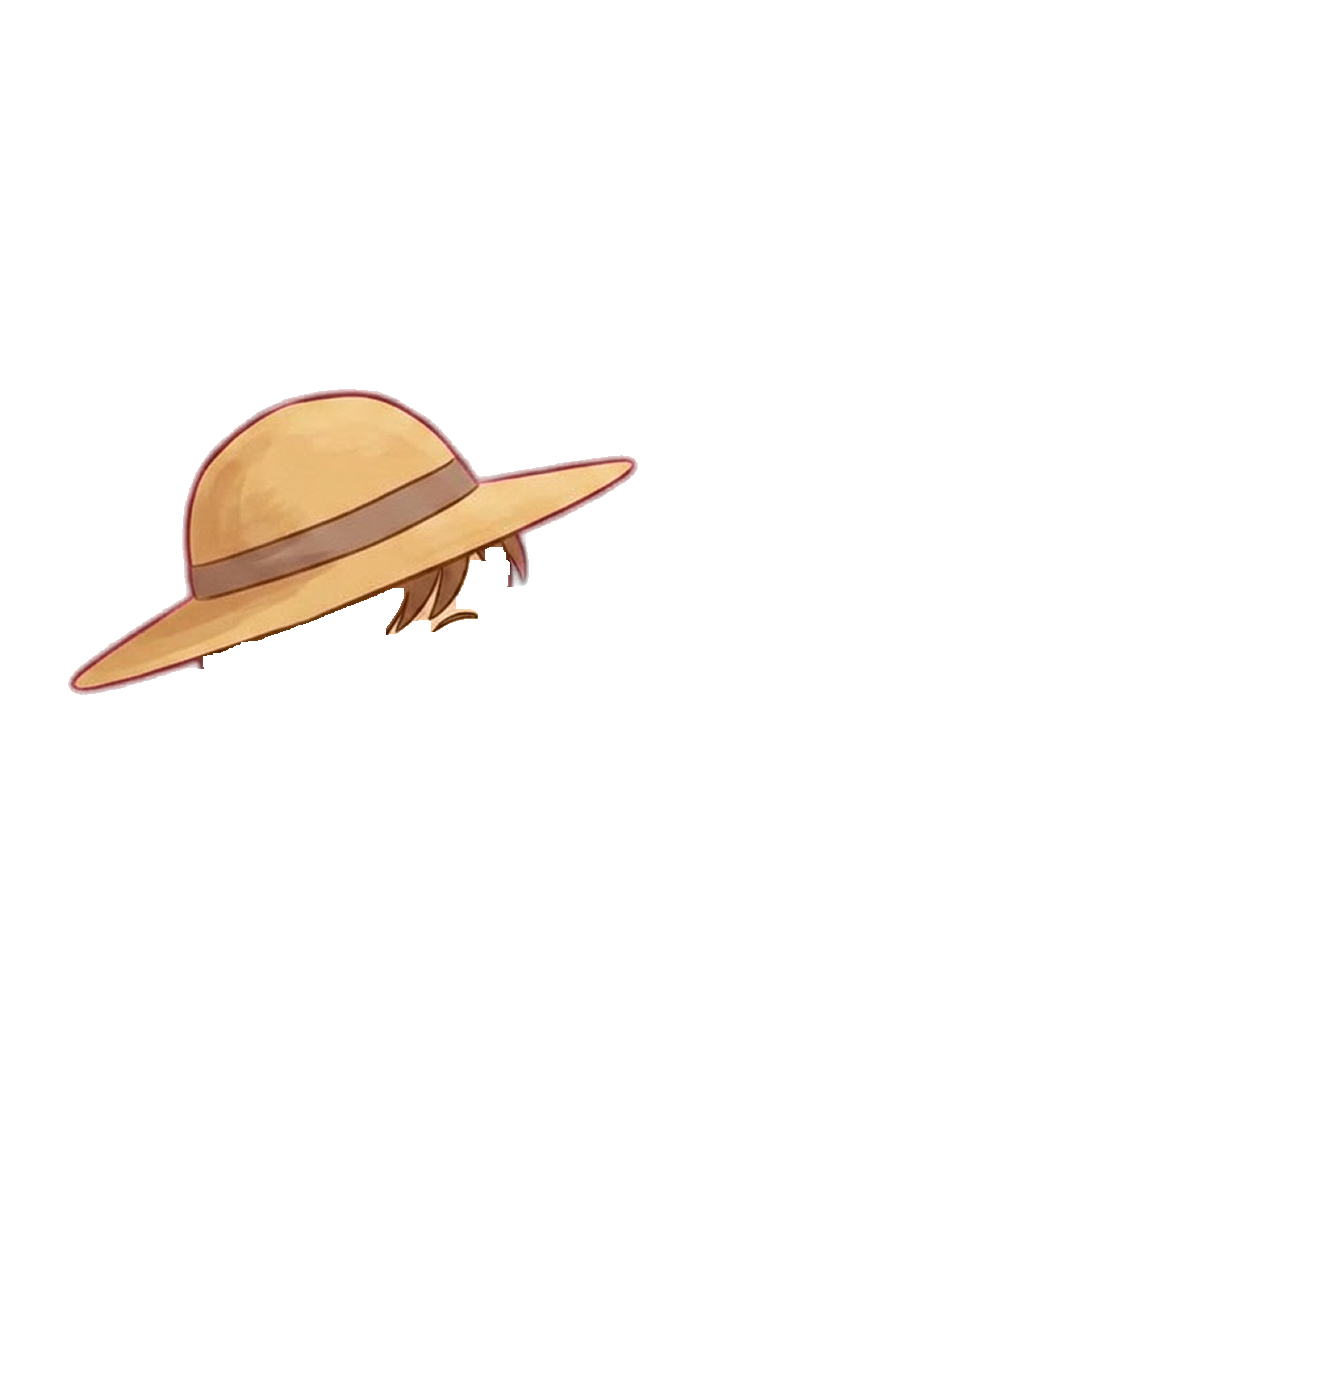
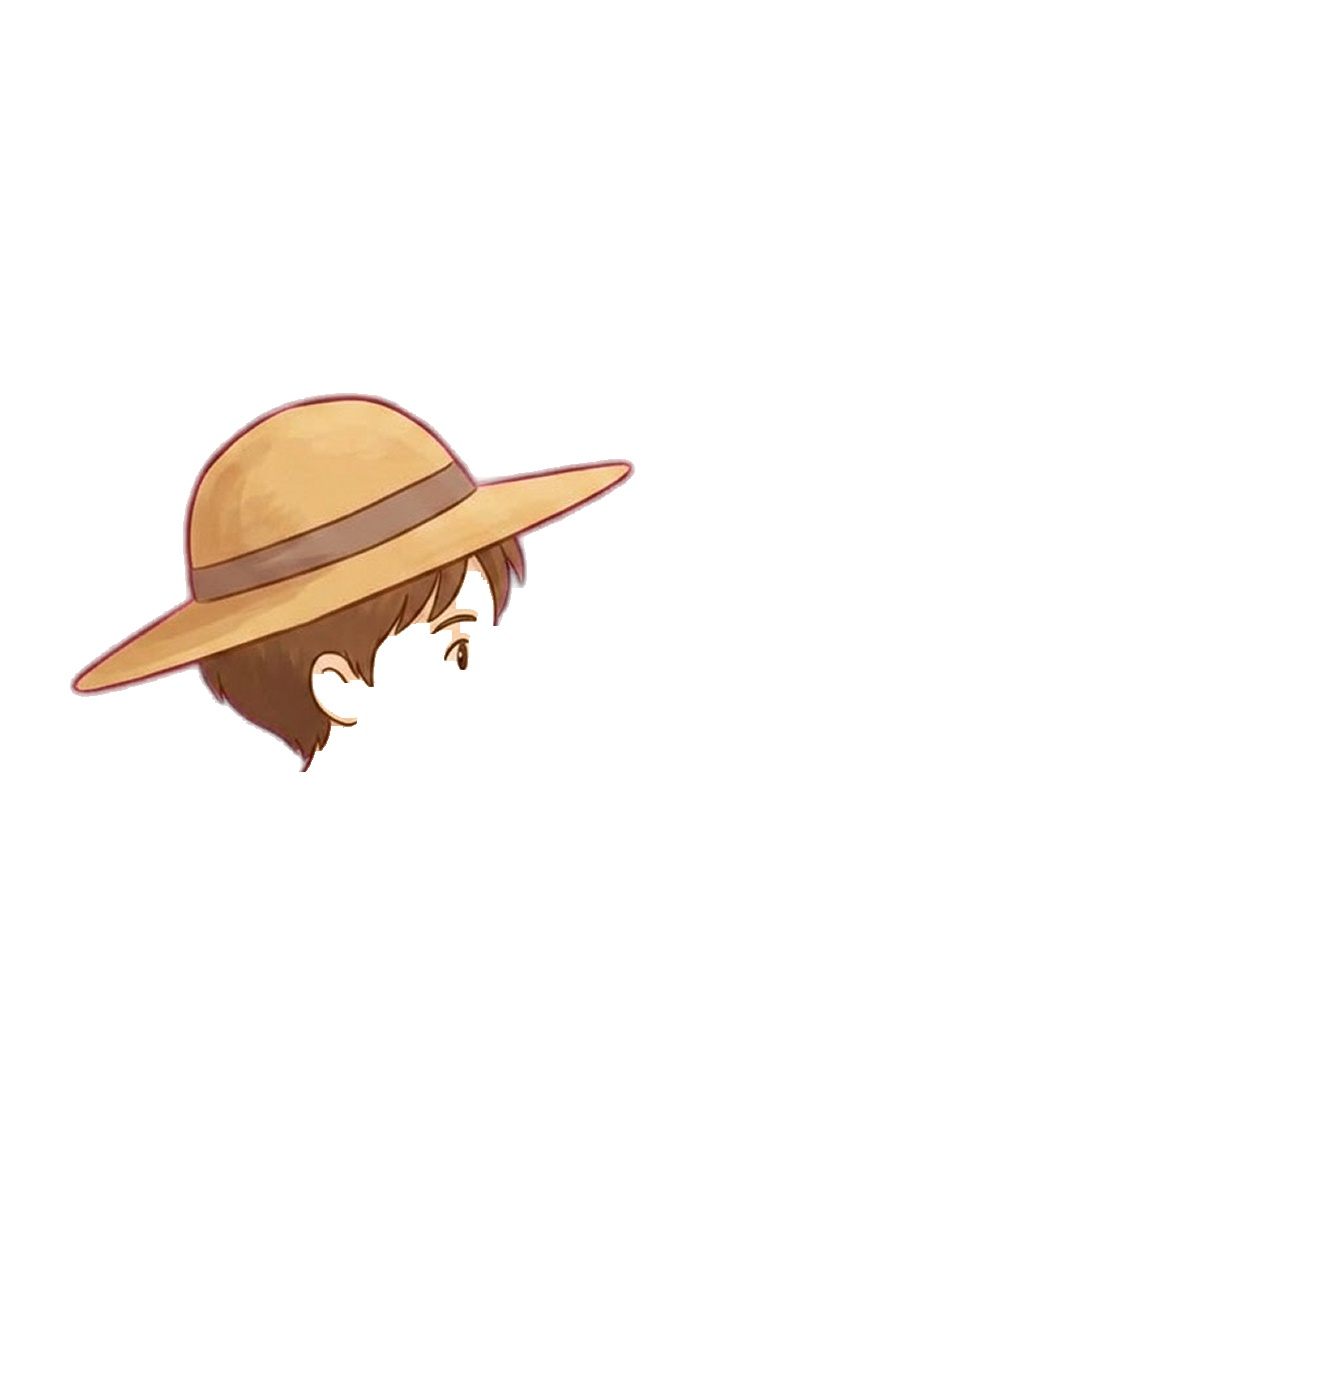
R7: the straw hat at the Stream, and the fit it broke (#124)
Second gear painting, second faithful edit: agreement below the neck 0.974,
only 591 px of the reference the return does not carry, and the clothes, hands,
net and rod all the same paint. Wired and verified in Chromium at the Stream.

It broke the registration fit, and the fix is worth more than the hat. The
first version matched bounding boxes of the lower 45% of the figure, which is
stable for a seated kid in a boat and not for one holding a landing net on a
string: the net hangs differently in the return, and that one moved extremity
skewed the fit to 1.204 x 1.399 for a figure whose proportions had not changed.
Every downstream number then read like a redraw (IoU 0.54, 70% of the body
"changed"), which is exactly the false alarm that costs a reroll.

Two changes to tools/cut-gear.py:

- Fit by searching rather than by boxes: maximise silhouette agreement over
  everything outside a box a hat could occupy, which keeps the ROD in the
  objective. A long thin diagonal across half the canvas pins scale and offset
  far harder than a seated child's blob, and no hat touches it.
- Pivot the search about the two figures' centroids. Measured from the canvas
  origin, scale and offset trade off, so every single-parameter step from the
  seed is worse than the seed even where a diagonal step is better: the search
  sat on its seed, 0.02 of IoU short of the answer.

The Pond was re-cut with the corrected fit. Its IoU is unchanged at 0.898 and
[…]

Changed region(s): [[0.0312, 0.2782, 0.4688, 0.5564], [0.1562, 0.3091, 0.1875, 0.34], [0.125, 0.34, 0.1562, 0.371]]

diff --git a/config.js b/config.js
@@ -167,7 +167,7 @@ export const CONFIG = {
     // gate rod. Add a stem here the moment its PNG lands.
     gearArt: [
       "rod-stick-pond", "rod-bamboo-stream", "rod-deepsea-ocean",
-      "hat-straw-pond",
+      "hat-straw-pond", "hat-straw-stream",
     ],
     poses: {
       // R4's painted angler. Both layers are cuts of ONE delivered painting
@@ -263,7 +263,9 @@ export const CONFIG = {
           { id: "rod",  gear: "rod", file: "rod-bamboo-stream",  x: 38, y: -70, w: 88, h: 123 },
           { id: "arm",              file: "angler-stream-arm",  x: 38, y: -70, w: 88, h: 123 },
           { id: "body",             file: "angler-stream-body", x: 38, y: -70, w: 88, h: 123 },
-          { id: "hat",  gear: "hat",                            x: 38, y: -70, w: 88, h: 123 },
+          // the pose's whole painted canvas, not the angler's crop — see the
+          // Pond's hat layer for why. Written by tools/cut-gear.py.
+          { id: "hat",  gear: "hat",                            x: 10.2, y: -70.7, w: 116.4, h: 126.7 },
         ],
         rodPivot:   { x: 65, y:   4 },
         lineOrigin: { x: 125, y: -70 },

diff --git a/tools/cut-gear.py b/tools/cut-gear.py
@@ -57,11 +57,11 @@ ROOT = os.path.dirname(os.path.dirname(os.path.abspath(__file__)))
 #         covers them cannot be fixed downstream and is a reroll
 POSES = {
     "pond":   dict(crop=(115, 8, 1222, 1331), design=(39, -44, 70,  76),
-                   neck=800, face=(400, 625, 570, 790)),
+                   neck=800, face=(400, 625, 570, 790), hatbox=(0, 300, 750, 830)),
     "stream": dict(crop=(331, 8, 1048, 1466), design=(38, -70, 88, 123),
-                   neck=810, face=(470, 650, 610, 800)),
+                   neck=810, face=(470, 650, 610, 800), hatbox=(150, 420, 790, 830)),
     "ocean":  dict(crop=(81,  7, 1237, 1419), design=(38, -48, 71,  82),
-                   neck=820, face=(300, 650, 410, 800)),
+                   neck=820, face=(300, 650, 410, 800), hatbox=(60, 340, 580, 860)),
 }
 THRESH = 45
 
@@ -96,23 +96,66 @@ def bbox(m):
     ys, xs = np.where(m)
     return xs.min(), xs.max(), ys.min(), ys.max()
 
-def lower(m):
-    x0, x1, y0, y1 = bbox(m)
-    mm = m.copy(); mm[:y0 + int(0.55 * (y1 - y0))] = False
-    return bbox(mm)
+# Fit by maximising silhouette agreement BELOW THE NECK, where no hat can reach
+# and a rod swap moves nothing. Matching bounding boxes there was the obvious
+# first try and it broke on the second delivery: the Stream angler dangles a
+# landing net, the net hangs differently in the return, and one moved extremity
+# is enough to skew a box fit (it gave 1.204 x 1.399 for a figure that had not
+# changed shape at all). A search over the whole overlap cannot be misled by one
+# limb, and it optimises the quantity actually wanted.
+# The transform is parameterised about the two figures' CENTROIDS rather than
+# the canvas origin, so a change of scale does not also shift the figure. With
+# scale and offset coupled the search cannot move at all: every single-parameter
+# step from the seed is worse than the seed, even though a diagonal step is
+# better, and it sat on its seed 0.02 of IoU short of the answer.
+cs = np.array([np.where(ms)[1].mean(), np.where(ms)[0].mean()])
+cr = np.array([np.where(mr)[1].mean(), np.where(mr)[0].mean()])
 
-ls, lr = lower(ms), lower(mr)
-sx = (lr[1] - lr[0]) / (ls[1] - ls[0])
-sy = (lr[3] - lr[2]) / (ls[3] - ls[2])
-tx, ty = lr[0] - ls[0] * sx, lr[2] - ls[2] * sy
-aff = (1 / sx, 0, -tx / sx, 0, 1 / sy, -ty / sy)
+def affine(sx, sy, tx, ty):
+    return (1 / sx, 0, cs[0] - (cr[0] + tx) / sx,
+            0, 1 / sy, cs[1] - (cr[1] + ty) / sy)
+
+def warp_mask(sx, sy, tx, ty):
+    return np.asarray(Image.fromarray((ms * 255).astype(np.uint8)).transform(
+        (W, H), Image.AFFINE, affine(sx, sy, tx, ty), Image.BILINEAR, fillcolor=0)) > 128
+
+# Everything OUTSIDE the box a hat could occupy, which keeps the rod in the
+# objective. That matters more than it sounds: the rod is a long thin diagonal
+# across half the canvas and no hat touches it, so it pins the scale and the
+# offset far harder than a seated child's below-the-neck blob does.
+hx0, hy0, hx1, hy1 = P["hatbox"]
+outside = np.ones((H, W), bool); outside[hy0:hy1, hx0:hx1] = False
+ref_out = mr & outside
+
+def agree(sx, sy, tx, ty):
+    w = warp_mask(sx, sy, tx, ty) & outside
+    return (w & ref_out).sum() / max((w | ref_out).sum(), 1)
+
+sx, sy, tx, ty = W / src.width, H / src.height, 0.0, 0.0
+step = [0.03 * sx, 0.03 * sy, 24.0, 24.0]
+best = agree(sx, sy, tx, ty)
+for _ in range(7):
+    for i in range(4):
+        while True:
+            moved = False
+            for d in (+1, -1):
+                cand = [sx, sy, tx, ty]; cand[i] += d * step[i]
+                v = agree(*cand)
+                if v > best + 1e-5:
+                    best, (sx, sy, tx, ty), moved = v, cand, True
+                    break
+            if not moved:
+                break
+    step = [v / 2 for v in step]
+aff = affine(sx, sy, tx, ty)
 D = np.asarray(src.transform((W, H), Image.AFFINE, aff, Image.BICUBIC,
                              fillcolor=tuple(KEY.astype(int))), dtype=float)
 md = np.asarray(Image.fromarray((ms * 255).astype(np.uint8))
                 .transform((W, H), Image.AFFINE, aff, Image.BICUBIC, fillcolor=0)) > 128
 iou = (md & mr).sum() / (md | mr).sum()
-print("fit: scale (%.4f, %.4f) offset (%.1f, %.1f) -> silhouette IoU %.4f, "
-      "%d px the reference has and the delivery does not" % (sx, sy, tx, ty, iou, (mr & ~md).sum()))
+print("fit: scale (%.4f, %.4f) offset (%.1f, %.1f), agreement below the neck %.4f"
+      " -> silhouette IoU %.4f, %d px the reference has and the delivery does not"
+      % (sx, sy, tx, ty, best, iou, (mr & ~md).sum()))
 
 # The reference is keyed, so its backdrop is alpha over black. Flatten it back
 # onto the delivery's own key colour first, or every backdrop pixel reads as a

diff --git a/tools/hat-transplant.py b/tools/hat-transplant.py
@@ -1,0 +1,114 @@
+#!/usr/bin/env python3
+"""Land a hat painted for one pose on another pose's head (R7).
+
+This is an ART PIPELINE tool, not part of the game. Nothing loads it at runtime
+and it is not a build step.
+
+    python3 tools/hat-transplant.py <stem> <from-pose> <to-pose>
+    python3 tools/hat-transplant.py hat-straw pond stream
+
+Writes assets/<stem>-<to-pose>.png. Register it in CONFIG.rig.gearArt like any
+other delivery.
+
+**This is not an offset tweak, and the difference matters.** The standing rule is
+that a piece which does not fit is a reroll, and it holds. What makes this
+legitimate is that it is not a piece being nudged into place by eye: it is the
+same measurement R4 used to size the three poses against each other, which is
+that they are one character drawn at three scales and the HEAD is what relates
+them. The transform is found by maximising agreement between the two poses' own
+above-the-neck silhouettes, and the tool refuses if they do not actually
+correspond.
+
+Measured on the straw hat, Pond to Stream: the two heads register at IoU 0.904
+under a uniform scale of 0.672, and the transplanted hat against the separately
+generated one is IoU 0.62 with the same area to 10%. At the 18 design px a head
+occupies on screen the two are indistinguishable, so a hat costs one generation
+for three poses rather than three.
+
+The open half is the OCEAN, whose head is the one that is not upright: it tilts
+back, and this transform carries no rotation. Check that one against a real
+generation before trusting it, which is what the Ocean straw hat is for.
+"""
+import os
+import sys
+
+import numpy as np
+from PIL import Image
+
+ROOT = os.path.dirname(os.path.dirname(os.path.abspath(__file__)))
+# where each pose's layer crop sits inside its painted canvas, and the row below
+# which a head is no longer a head. Both are cut-gear.py's numbers; keep them in
+# step if a pose is ever re-cut.
+POSES = {
+    "pond":   dict(crop=(115, 8), canvas=(1344, 1391), neck=800),
+    "stream": dict(crop=(331, 8), canvas=(1387, 1510), neck=810),
+    "ocean":  dict(crop=(81,  7), canvas=(1324, 1466), neck=820),
+}
+MIN_HEAD_IOU = 0.85
+
+stem, src_pose, dst_pose = sys.argv[1], sys.argv[2], sys.argv[3]
+
+
+def head(pose):
+    """the pose's own head, taken off the BODY layer so the rod is not in it"""
+    P = POSES[pose]
+    W, H = P["canvas"]
+    m = np.zeros((H, W), bool)
+    b = np.asarray(Image.open(os.path.join(ROOT, "assets", "angler-%s-body.png" % pose))
+                   .convert("RGBA"))[..., 3] > 16
+    ox, oy = P["crop"]
+    m[oy:oy + b.shape[0], ox:ox + b.shape[1]] = b
+    m[P["neck"]:] = False
+    return m
+
+
+ms, md = head(src_pose), head(dst_pose)
+Wd, Hd = POSES[dst_pose]["canvas"]
+cs = np.array([np.where(ms)[1].mean(), np.where(ms)[0].mean()])
+cd = np.array([np.where(md)[1].mean(), np.where(md)[0].mean()])
+
+
+def affine(k, tx, ty):
+    return (1 / k, 0, cs[0] - (cd[0] + tx) / k,
+            0, 1 / k, cs[1] - (cd[1] + ty) / k)
+
+
+def warp(img, k, tx, ty, mode=Image.BICUBIC):
+    return img.transform((Wd, Hd), Image.AFFINE, affine(k, tx, ty), mode, fillcolor=0)
+
+
+src_img = Image.fromarray((ms * 255).astype(np.uint8))
+def score(k, tx, ty):
+    w = np.asarray(warp(src_img, k, tx, ty, Image.BILINEAR)) > 128
+    return (w & md).sum() / (w | md).sum()
+
+# a uniform scale only: the same head, drawn bigger or smaller. Anything that
+# needed a shear or a rotation would not be the same head.
+k, tx, ty = 1.0, 0.0, 0.0
+best, step = score(k, tx, ty), [0.08, 40.0, 40.0]
+for _ in range(8):
+    for i in range(3):
+        while True:
+            moved = False
+            for d in (+1, -1):
+                cand = [k, tx, ty]; cand[i] += d * step[i]
+                v = score(*cand)
+                if v > best + 1e-5:
+                    best, (k, tx, ty), moved = v, cand, True
+                    break
+            if not moved:
+                break
+    step = [v / 2 for v in step]
+
+print("%s head onto %s head: scale %.4f, offset (%.1f, %.1f), head IoU %.4f"
+      % (src_pose, dst_pose, k, tx, ty, best))
+if best < MIN_HEAD_IOU:
+    sys.exit("the two heads do not correspond well enough (%.3f < %.2f) — generate this "
+             "one instead of transplanting it" % (best, MIN_HEAD_IOU))
+
+hat = Image.open(os.path.join(ROOT, "assets", "%s-%s.png" % (stem, src_pose))).convert("RGBA")
+out = warp(hat, k, tx, ty)
+path = os.path.join(ROOT, "assets", "%s-%s.png" % (stem, dst_pose))
+out.save(path, optimize=True)
+print("  %s  %dx%d  %.0f KB" % (path, Wd, Hd, os.path.getsize(path) / 1024))
+print('  then add "%s-%s" to CONFIG.rig.gearArt' % (stem, dst_pose))

diff --git a/ART.md b/ART.md
@@ -293,8 +293,9 @@ half of R7's done-when that is still open.
 
 1. ~~**`hat-straw-pond`, the probe.**~~ ✅ landed first attempt 2026-09-02; the
    edit comes back as an edit. See the record below.
-2. **`hat-straw-stream` and `hat-straw-ocean`**, which between them buy the
-   transplant answer below.
+2. ~~**`hat-straw-stream`**~~ ✅ landed first attempt 2026-09-02, and the
+   transplant is answered for that pose. **`hat-straw-ocean`** is still open and
+   is the half that decides the rest.
 3. The rest of the hats, cheapest first (`bucket` 30, `beanie` 50, `souwester`
    75), Pond then Stream then Ocean.
 4. The nine rods, `stick` and `bamboo` before `carbon` and `deepsea`.
@@ -381,6 +382,63 @@ Cut with `python3 tools/cut-gear.py pond hat-straw assets/Gemini_hat-straw-pond.
 Verified in Chromium past the profile modal: the hat is on the kid's head in the
 rowboat, it survives a reload, and at the Stream the same equipped hat falls back
 to nothing with no failed request anywhere in the run.
+
+#### ✅ `hat-straw-stream` landed first attempt (2026-09-02), and it found the fit
+
+Second delivery, second faithful edit: agreement below the neck 0.974, only
+**591 px** of the reference the return does not carry, and the pose's clothes,
+hands, net and rod all the same paint. 0 pure-black px, 0.73% darker than umber
+and warm. Wired, and verified in Chromium at the Stream.
+
+**It broke the registration fit, and the fix is the lesson.** The first version
+matched bounding boxes of the lower 45% of the figure, which is stable for a
+seated kid in a boat and not for a kid holding a **landing net on a string**: the
+net hangs differently in the return, and one moved extremity skewed the box fit
+to a scale of 1.204 x 1.399 for a figure whose proportions had not changed at
+all. Every downstream number then looked like a redraw (IoU 0.54, 70% of the
+body "changed"), which is exactly the false alarm that costs a reroll.
+
+Two changes, both in `tools/cut-gear.py`:
+
+- **Fit by searching, not by boxes.** Maximise silhouette agreement over
+  everything outside a box a hat could occupy, which keeps the **rod** in the
+  objective. A long thin diagonal across half the canvas pins scale and offset
+  far harder than a seated child's blob does, and no hat touches it.
+- **Pivot the search about the two figures' centroids.** With scale and offset
+  measured from the canvas origin they trade off, so every single-parameter step
+  from the seed is worse than the seed even when a diagonal step is better: the
+  search sat on its seed, 0.02 of IoU short. Pivoting about the centroid
+  decouples them and it converges.
+
+The Pond was re-cut with the corrected fit (IoU 0.898, unchanged; its piece now
+carries a little more of the hair under the brim, which the hat layer should
+paint anyway).
+
+#### The transplant is answered for the Stream, and it works
+
+The question these two paintings were sent to settle: can a hat painted once at
+the Pond be landed on another pose's head instead of generated again?
+
+**For the Stream, yes.** The two poses' above-the-neck silhouettes register at
+**IoU 0.904** under a uniform scale of 0.672, which is the R4 finding restated
+(one character at three scales, related by the head). Landing the Pond hat on
+that transform and comparing it against the separately generated Stream hat:
+**IoU 0.62 with the areas within 10%**, and at the 18 design px a head actually
+occupies they are indistinguishable. The generated one sits a touch deeper and
+shades the brow; the transplant sits a touch high. Nothing a player can see.
+
+`tools/hat-transplant.py` does it, and it **refuses below a head IoU of 0.85**
+rather than landing a hat on a head that does not correspond. This is not the
+offset-tweak rule being bent: the transform is measured off the two paintings,
+not nudged by eye, and the tool checks its own premise.
+
+**The Ocean is the open half**, and it is the one that matters, because its head
+is the only one that is not upright. It tilts back, and this transform carries no
+rotation. `hat-straw-ocean` is still worth generating for exactly that reason.
+
+**So the remaining nine hats are three generations plus two transplants each, or
+six generations plus three transplants** if the Ocean turns out to need its own
+paintings. Matt's call, and the cheap half of it is proven either way.
 
 #### The hats
 

diff --git a/HANDOFF.md b/HANDOFF.md
@@ -11,7 +11,7 @@ something is the way it is, `git log` and the PR body have it in full.
 |---|---|
 | **Active milestone** | **R7 — gear in the new style**, `BUILD_PLAN_REFRESH.md`. The last one in the epic. |
 | **Done when** | buying and equipping a hat changes the angler everywhere and persists, and the rod you bought is the rod in your hand |
-| **State** | **The first gear painting is in, 2026-09-02.** `hat-straw-pond` landed first attempt and is cut, wired and on screen; the shop, the equip and the persistence were already done. **20 paintings to go and no open questions in front of them.** |
+| **State** | **2 of 21 painted, 2026-09-02.** The straw hat is on the Pond and Stream anglers, cut, wired and on screen. **The transplant question is half answered: a hat painted once at the Pond lands on the Stream head indistinguishably, so the Ocean decides whether the remaining nine hats cost three generations or six.** |
 | `origin/main` | clean, nothing unpushed |
 | Tests | 89/89 (`npm test`) |
 | Open PRs | **#55 only** — close it unmerged, see below |
@@ -19,22 +19,19 @@ something is the way it is, `git log` and the PR body have it in full.
 
 ## Start here
 
-**Generate `hat-straw-stream` and `hat-straw-ocean`**, in that order. The prompt
-table, the attachment and the checks are in `ART.md` under *R7*; the two
-references come from `python3 tools/gear-ref.py`.
+**Generate `hat-straw-ocean`.** It is the last open question in the epic, not
+just the next square: the Ocean's head is the only one that is not upright, and
+`tools/hat-transplant.py` carries no rotation. If a transplanted Pond hat matches
+a real Ocean generation the way it matched the Stream's, the remaining nine hats
+are **three** generations (bucket, beanie, souwester, at the Pond) and six free
+transplants. If it does not, they are six generations and three transplants.
+The prompt and the reference are in `ART.md` under *R7*.
 
-Those two are worth doing before the other nine hats, because they buy an answer
-rather than just filling squares: with the straw hat at all three poses, land the
-*Pond* hat on the other two heads locally by head-box match and compare. If it is
-indistinguishable at 18px, the remaining hats are three generations rather than
-nine. The Ocean's head tilts back, which is the reason it might not be.
-
-**The shape is proven.** The generator returns an edit rather than a redraw
-(`GEMINI_NOTES.md` → *Editing a delivered painting*), and `tools/cut-gear.py`
-owns the cut: it registers the return per-axis on the lower 45% of the figure,
-takes what changed, and writes the piece at the pose's whole canvas. Adding a
-pose to it is one `POSES` entry: the layer crop and design box `cut-angler.py`
-printed, a neck row, and a face box.
+**Two deliveries in, the shape is settled.** The generator returns an edit rather
+than a redraw (`GEMINI_NOTES.md` → *Editing a delivered painting*), and
+`tools/cut-gear.py` registers it by searching for the transform that best agrees
+with the unchanged part, then takes what changed. Adding a pose to it is one
+`POSES` entry.
 
 **Hats before rods.** An unregistered rod falls back to the pose's own painted
 gate rod, which nobody can tell from the real thing. An unregistered hat falls

diff --git a/BUILD_PLAN_REFRESH.md b/BUILD_PLAN_REFRESH.md
@@ -561,13 +561,14 @@ Whether that holds is the probe's job.
 unregistered rod shows the pose's own painted rod and nobody can tell, while an
 unregistered hat shows nothing and is a purchase that does not work.
 
-**`hat-straw-pond` landed first attempt on 2026-09-02 and is wired**, so the
-shape is proven rather than assumed: the generator returned an edit, not a
-redraw (silhouette IoU 0.898 against the reference, the pose below the neck
-identical to within JPEG noise), and `tools/cut-gear.py` now owns the cut. The
-Pond kid wears a straw hat in the game, it persists, and the same hat at the
-Stream still falls back to nothing with no failed request. **20 paintings left,
-and none of them is a new question.**
+**The straw hat landed at the Pond and the Stream on 2026-09-02, both first
+attempt**, so the shape is proven rather than assumed: the generator returns an
+edit, not a redraw, and `tools/cut-gear.py` owns the cut. **19 paintings left,
+and the transplant may take most of them off the list** — a hat painted once at
+the Pond lands on the Stream's head indistinguishably at game size
+(`tools/hat-transplant.py`, head IoU 0.904). The Ocean's head is the only one
+that is not upright, so `hat-straw-ocean` decides whether the remaining nine hats
+cost three generations or six.
 
 Three things carry it, and the third is the one worth remembering:
 

diff --git a/GEMINI_NOTES.md b/GEMINI_NOTES.md
@@ -160,7 +160,14 @@ something to get right and becomes something you *have*: the pixels that did not
 change are the reference's own. It also means a piece can be found by
 difference rather than keyed out of a fresh canvas.
 
-**Two cautions, both from the same delivery:**
+**Confirmed on a second delivery** (the same hat for the standing Stream
+angler): same result, another faithful edit, with only 591 px of the reference
+missing from the return. The one difference worth noting is the backdrop, which
+came back at a border stdev of 10/20/10 against the first delivery's 2/4/3. Still
+flat enough to key, and it is the reminder the convention already carries:
+measure the backdrop, never assume it.
+
+**Two cautions, both from the first delivery:**
 
 - **The canvas comes back its own size, and the ASPECT drifts too.** Asked
   1344x1391, got 1008x1056: 0.955 against 0.966. Size being ignored is the old
